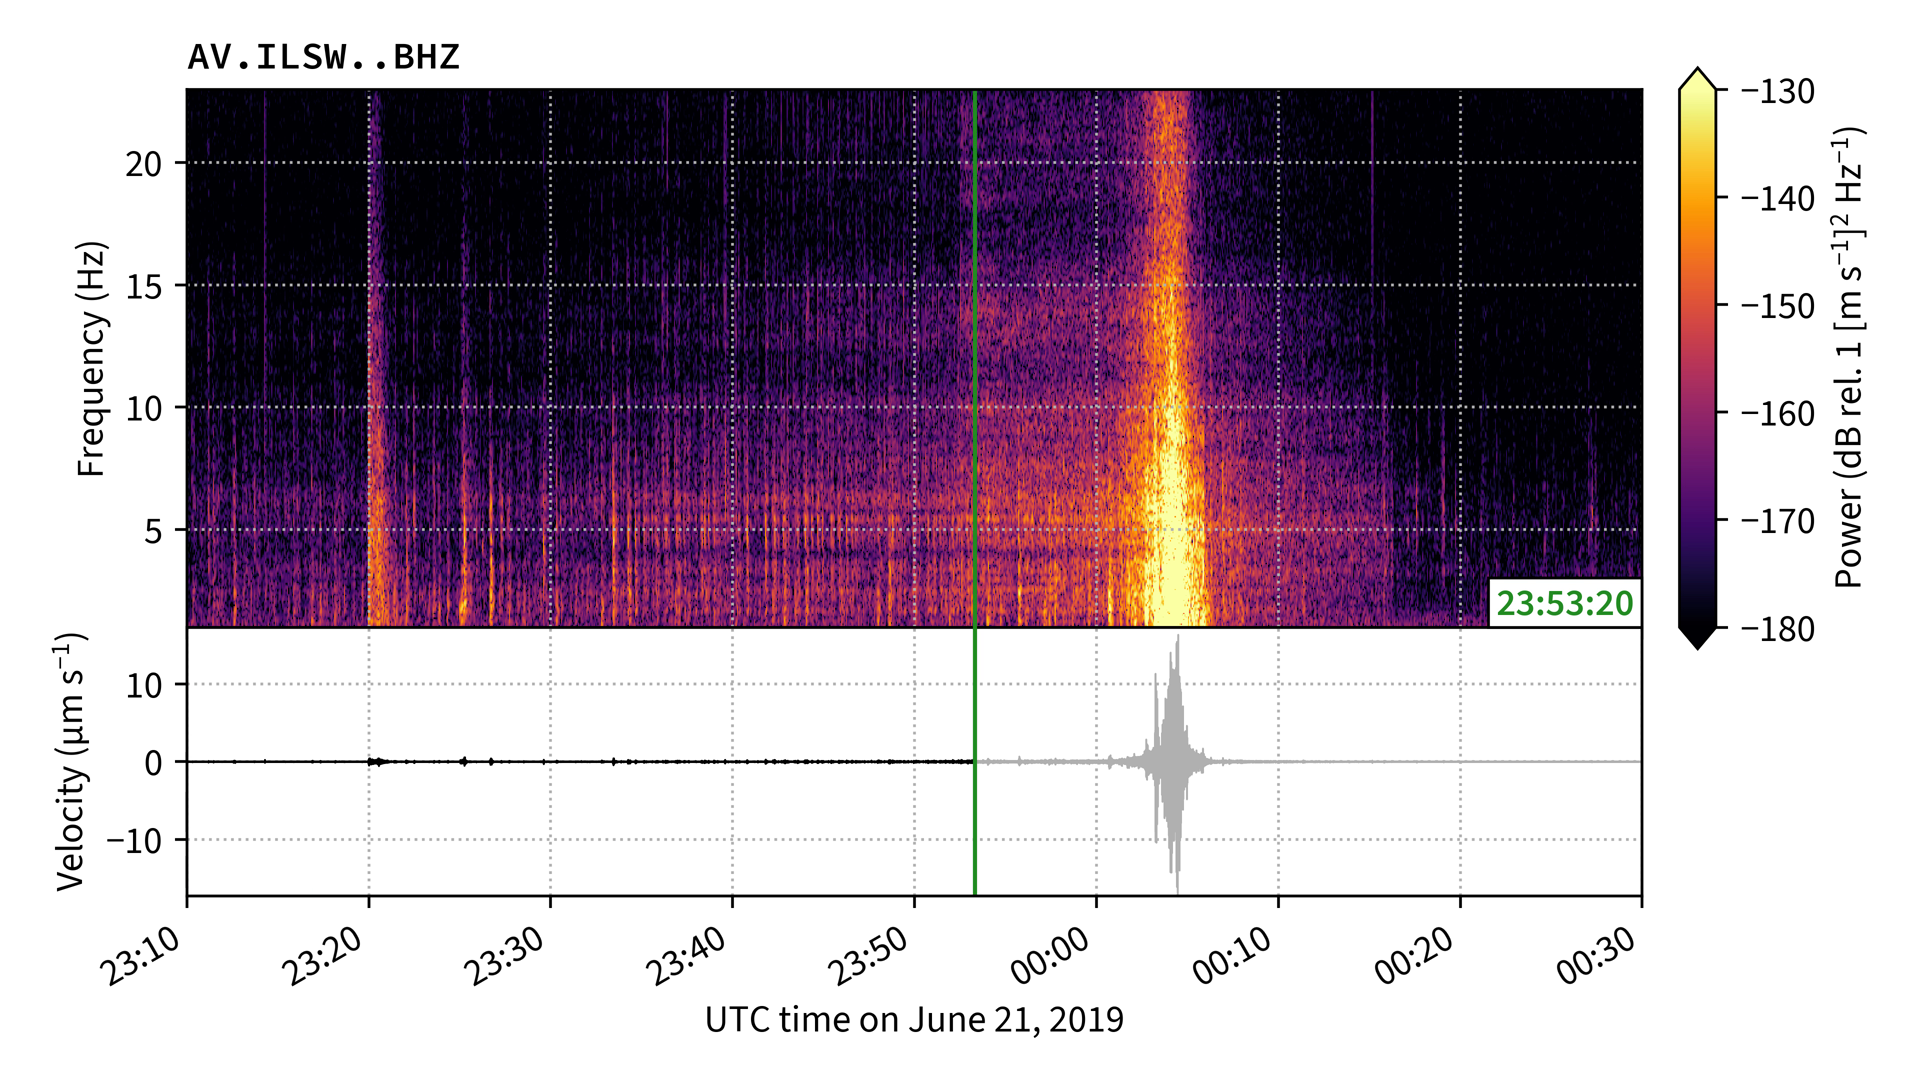
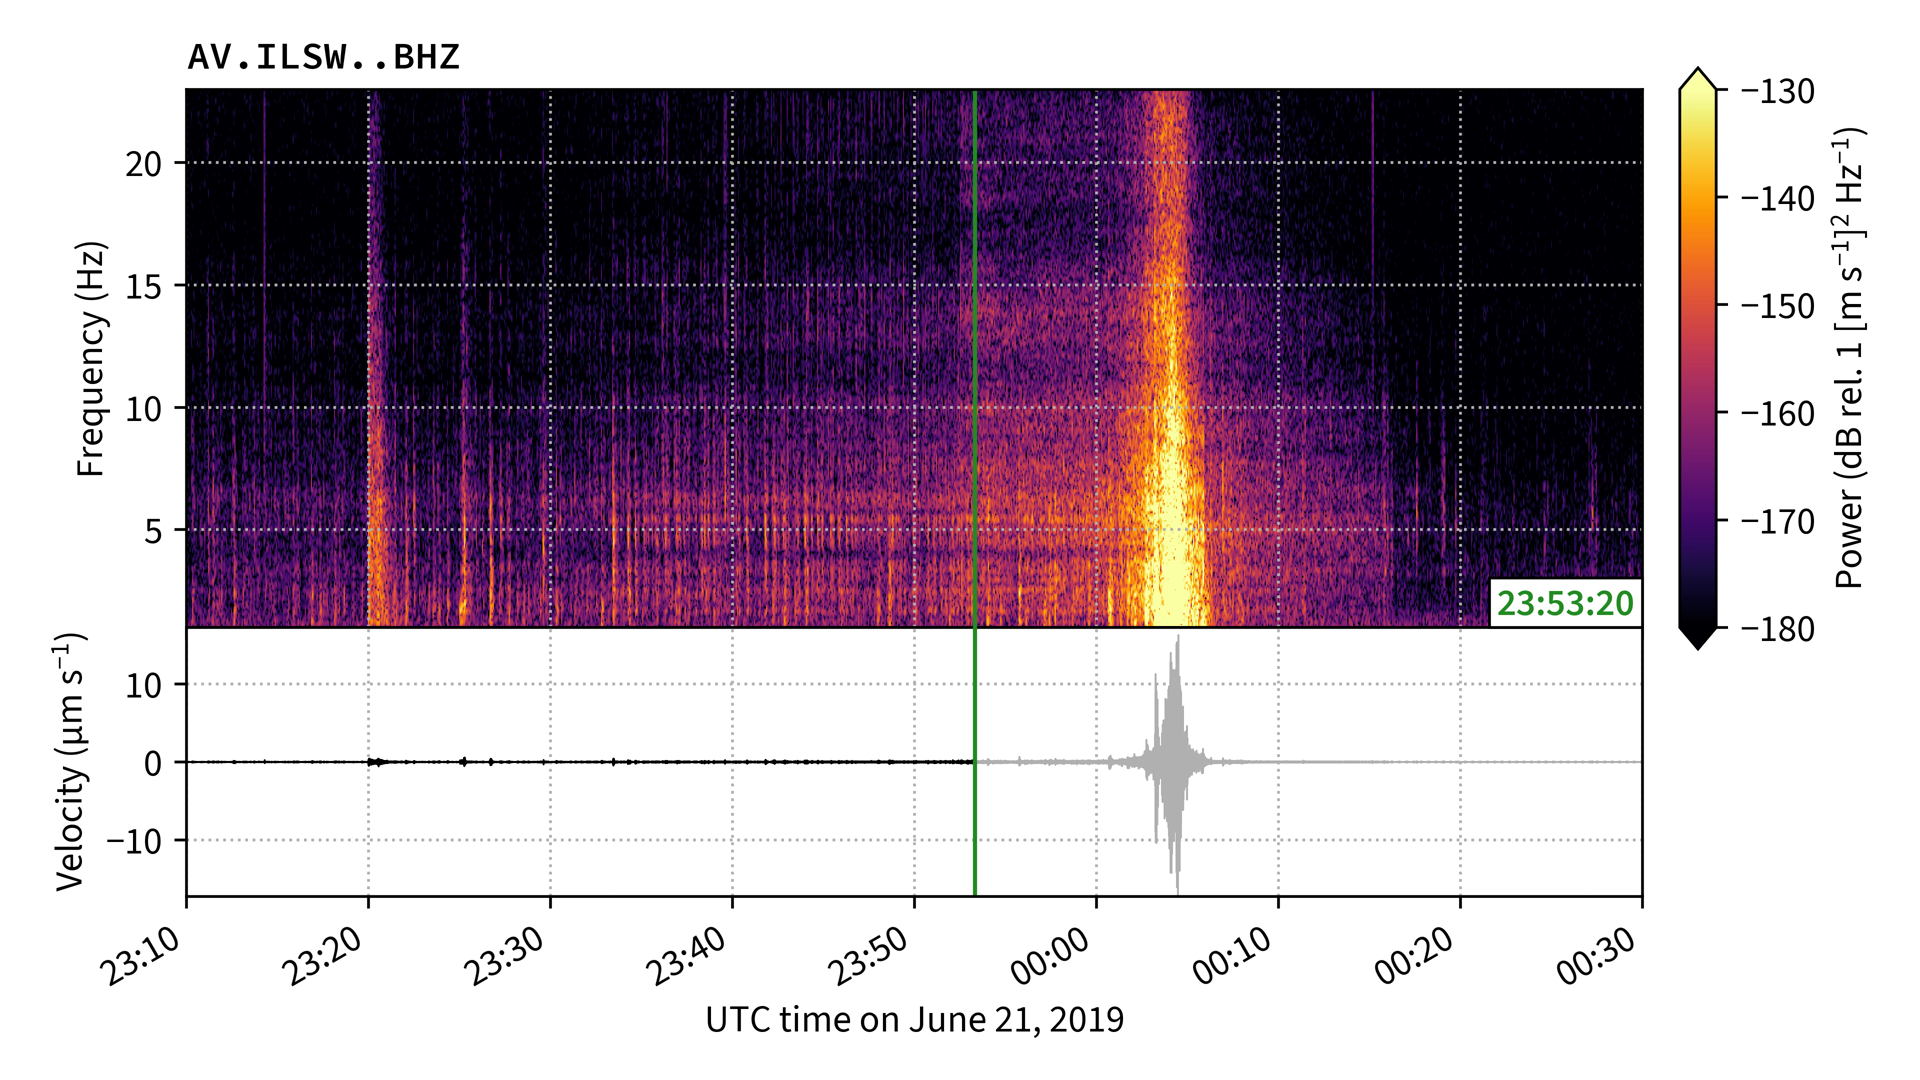
Make screenshot script in Python (Claude)

diff --git a/scripts/create_screenshot.py b/scripts/create_screenshot.py
@@ -1,0 +1,68 @@
+#!/usr/bin/env python
+
+"""
+Parse the example command from README.rst, run it, and extract a screenshot.
+
+Run with: poe screenshot
+"""
+
+import re
+import shlex
+import subprocess
+import tempfile
+from pathlib import Path
+
+import imageio_ffmpeg
+
+REPO_DIR = Path(__file__).resolve().parent.parent
+README = REPO_DIR / 'README.rst'
+SCREENSHOT = REPO_DIR / 'screenshot.png'
+
+FRAME = 14  # Which frame number to extract (1-indexed)
+
+# Extract frame, then resize. Commas are escaped for FFmpeg's filter syntax.
+FILTER = rf'select=eq(n\,{FRAME - 1}),scale=iw/2:ih/2,format=yuv444p'
+
+
+def _get_command():
+    """Return the sonify call between the ~BEGIN~ and ~END~ markers as a list."""
+    text = README.read_text()
+    block = re.search(
+        r'^\.\. ~BEGIN~$(.*?)^\.\. ~END~$', text, re.MULTILINE | re.DOTALL
+    )
+    lines = [
+        line.strip().removesuffix('\\').strip()
+        for line in block.group(1).splitlines()
+        # Drop blank lines and RST directives/comments
+        if line.strip() and not line.startswith('.. ')
+    ]
+    return shlex.split(' '.join(lines))
+
+
+if __name__ == '__main__':
+    command = _get_command()
+    print(f'Running: {shlex.join(command)}')
+
+    # The temporary directory takes the place of the manual `rm *.mp4`
+    with tempfile.TemporaryDirectory() as temp_dir:
+        subprocess.run(command, cwd=temp_dir, check=True)
+        video_file = next(Path(temp_dir).glob('*.mp4'))
+        subprocess.run(
+            [
+                imageio_ffmpeg.get_ffmpeg_exe(),
+                '-y',
+                '-v',
+                'warning',
+                '-i',
+                str(video_file),
+                '-filter:v',
+                FILTER,
+                '-frames:v',
+                '1',
+                '-update',
+                '1',
+                str(SCREENSHOT),
+            ],
+            check=True,
+        )
+    print(f'Saved {SCREENSHOT}')
